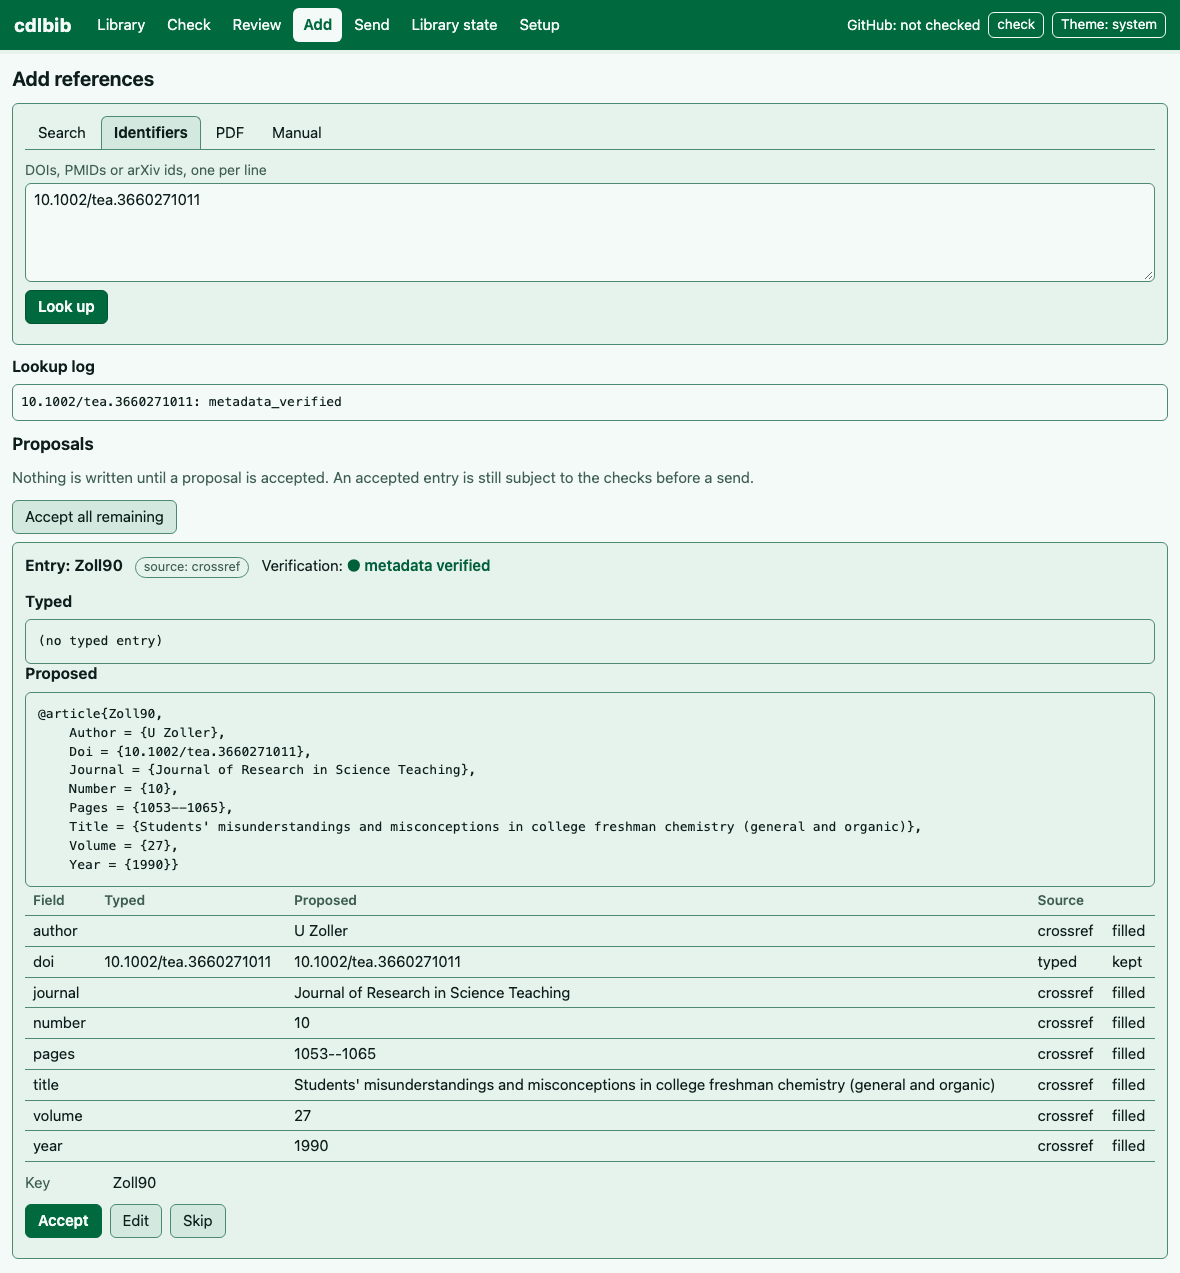
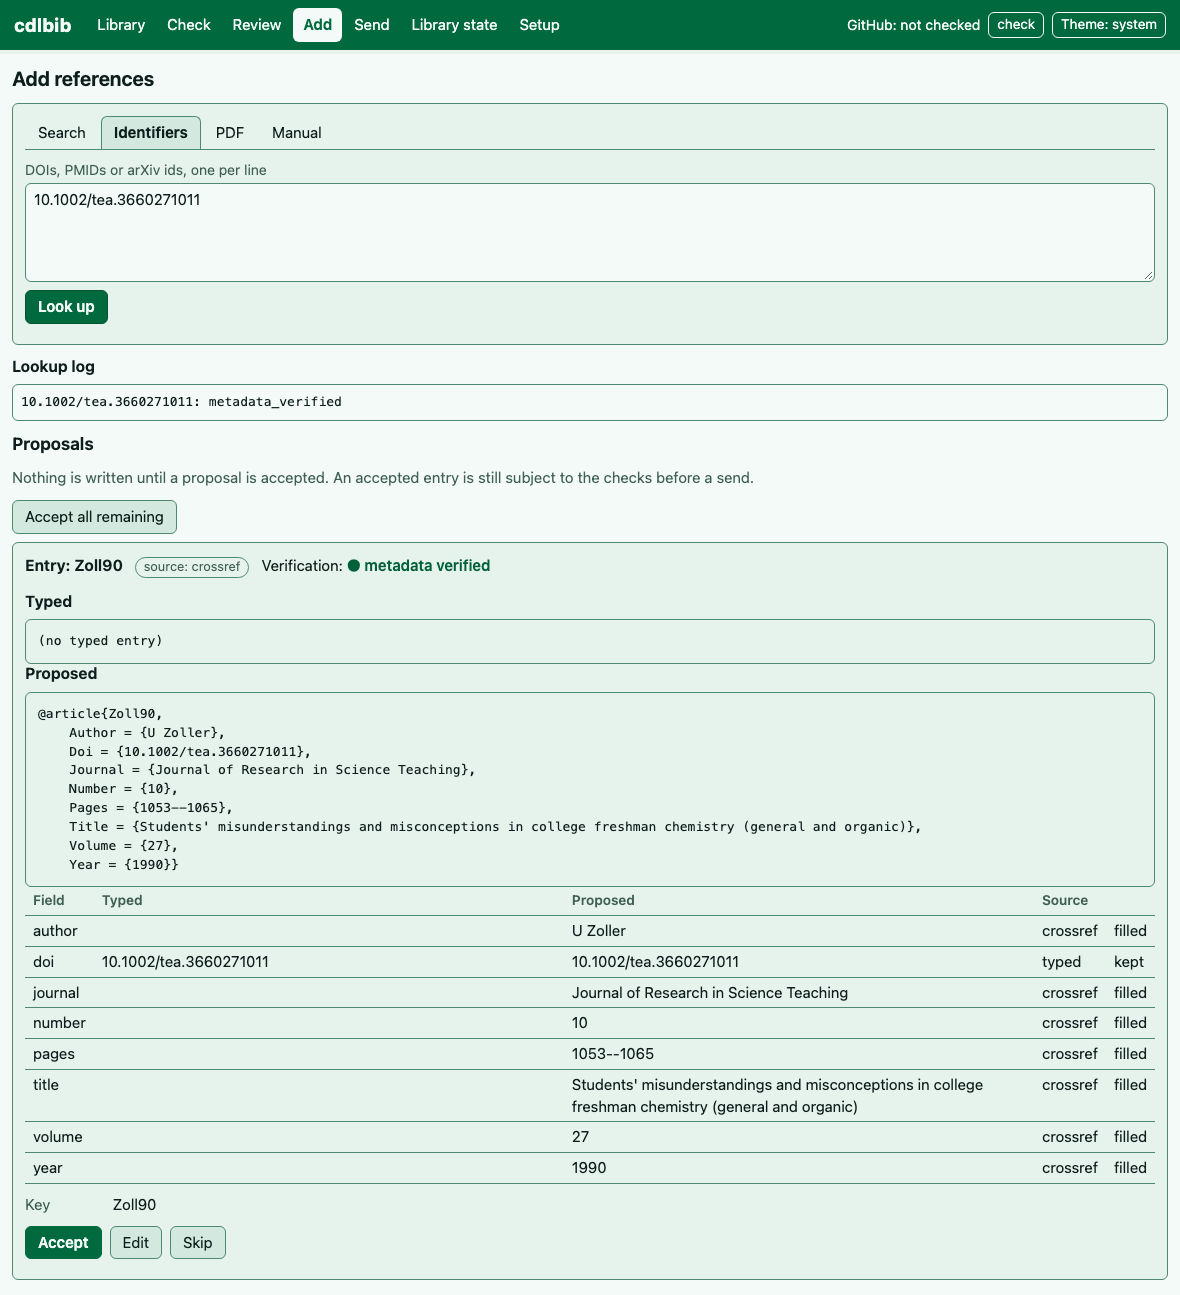
Web: balanced value columns in the proposal's field table; add-pdf captured with its margin
The Typed and Proposed columns share the free width and are never narrower
than a short identifier; an identifier read from a PDF is shown on one
line. scripts/capture_web.py captures a part of a view with the view's own
margin around it. web-add-pdf.png and web-add-identifier.png recaptured.

Claude-Session: https://claude.ai/code/session_01KWfavKa98wG6g4uURKH6Qp

diff --git a/src/cdlbib/web/static/js/add.js b/src/cdlbib/web/static/js/add.js
@@ -111,7 +111,7 @@ export async function show(main) {
       ["Text", read.ocr ? "from OCR, which misreads characters" : null]])];
     if (read.problem) facts.unshift(note("bad", read.problem.replaceAll("_", " ") + (read.detail ? ": " + read.detail : "")));
     if (read.identifiers.length) {
-      facts.push(table(["Identifier", "Value", "Page", "Read from"], read.identifiers.map((i) => [i.kind, i.value, i.page === null ? "metadata" : String(i.page), i.quote])));
+      facts.push(table(["Identifier", "Value", "Page", "Read from"], read.identifiers.map((i) => [i.kind, h("span", { class: "nowrap", text: i.value }), i.page === null ? "metadata" : String(i.page), i.quote])));
     } else {
       facts.push(h("p", { class: "muted", text: "No DOI, arXiv id or PMID was read." }));
     }

diff --git a/src/cdlbib/web/static/app.css b/src/cdlbib/web/static/app.css
@@ -186,6 +186,8 @@ table.grid th { color: var(--cdl-muted); font-weight: 600; font-size: .85rem; }
 .beside-page .pdf-frame { height: 50vh; min-height: 18em; }
 label.check { display: block; margin-bottom: 8px; }
 table.changes td:last-child, table.changes td:nth-child(4) { white-space: nowrap; }
+/* the two value columns share the free width, and neither is squeezed below a short identifier */
+table.changes td:nth-child(2), table.changes td:nth-child(3) { min-width: 24ch; width: 45%; }
 fieldset.names { border: 1px solid var(--cdl-border); border-radius: var(--radius); margin: 8px 0; padding: 8px 12px; }
 fieldset.names li label { margin-right: 12px; }
 [aria-busy="true"] { opacity: .75; }

diff --git a/scripts/capture_web.py b/scripts/capture_web.py
@@ -149,8 +149,11 @@ def capture(out, width, height, only):
             size = whole(page)
             page.mouse.move(0, 0)               # nothing is hovered
             target = out / f"web-{name}.png"
-            if part:
-                page.locator(part).first.screenshot(path=str(target))
+            if part:        # that part of the view, with the view's own margin around it
+                box = page.locator(part).first.bounding_box()
+                edge = 12
+                page.screenshot(path=str(target), clip={"x": max(0, box["x"] - edge), "y": max(0, box["y"] - edge),
+                                                        "width": box["width"] + 2 * edge, "height": box["height"] + 2 * edge})
             else:
                 page.screenshot(path=str(target))
             page.set_viewport_size(size)
